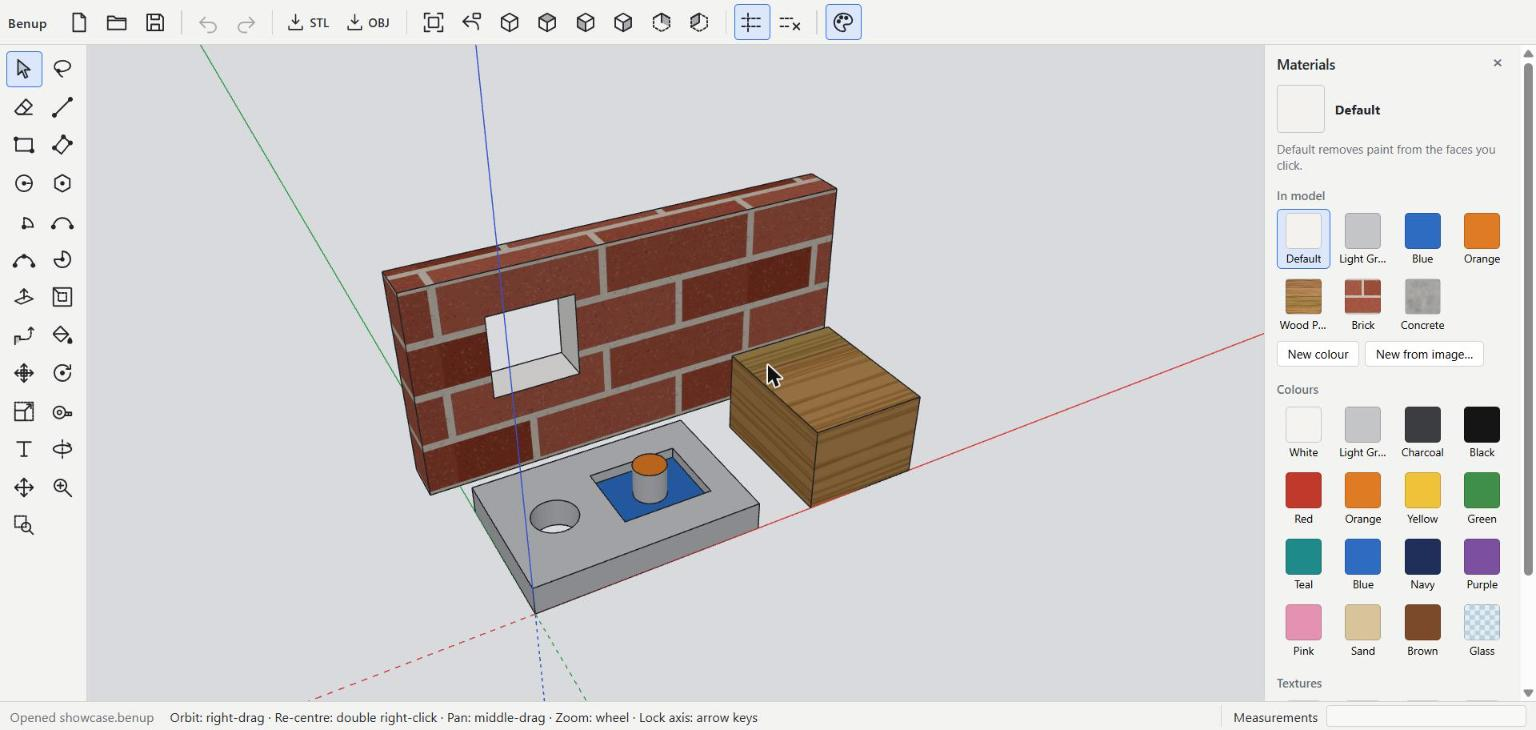
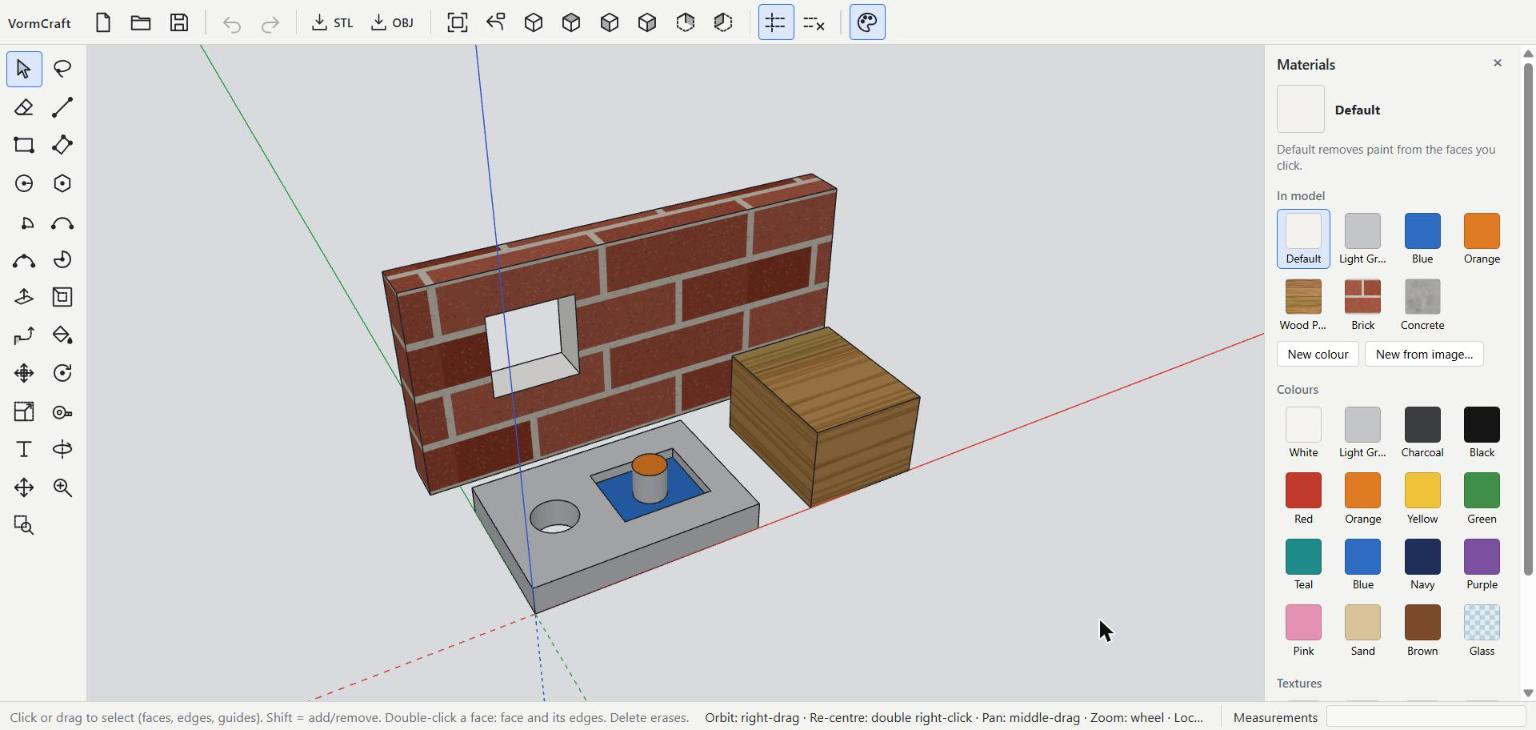
Rename the app to VormCraft; models save as .vorm (old .benup files still open)

Changed region(s): [[0.0, 0.0, 0.5938, 0.0603], [0.0, 0.9644, 0.7812, 0.9945], [0.5, 0.5123, 0.5312, 0.5425]]

diff --git a/src/app/fileCommands.ts b/src/app/fileCommands.ts
@@ -1,12 +1,16 @@
 import { checkWatertight } from '../core/check/watertight';
 import { Document } from '../doc/Document';
 import { exportObj, exportStl } from '../io/export';
-import { FILE_EXTENSION, parseDocument, serializeDocument } from '../io/fileFormat';
+import { FILE_EXTENSION, OLD_FILE_EXTENSIONS, parseDocument, serializeDocument } from '../io/fileFormat';
 import type { ToolController } from '../tools/ToolController';
 import { confirmDialog, showExportDialog } from './dialogs';
 import type { FileFilter, FileHost } from './files';
 
-const BENUP_FILTER: FileFilter = { name: 'Benup model', extensions: [FILE_EXTENSION] };
+const MODEL_FILTER: FileFilter = { name: 'VormCraft model', extensions: [FILE_EXTENSION] };
+/** Opening also accepts files saved before the app was renamed. */
+const OPEN_FILTER: FileFilter = { name: 'VormCraft model', extensions: [FILE_EXTENSION, ...OLD_FILE_EXTENSIONS] };
+/** Any of our extensions at the end of a file name. */
+const EXTENSION = new RegExp(`\\.(${[FILE_EXTENSION, ...OLD_FILE_EXTENSIONS].join('|')})$`, 'i');
 const STL_FILTER: FileFilter = { name: 'STL (binary)', extensions: ['stl'] };
 const OBJ_FILTER: FileFilter = { name: 'Wavefront OBJ', extensions: ['obj'] };
 
@@ -23,7 +27,7 @@ export class FileCommands {
   ) {}
 
   title(): string {
-    return `${this.name}${this.controller.dirty ? ' •' : ''} — Benup`;
+    return `${this.name}${this.controller.dirty ? ' •' : ''} — VormCraft`;
   }
 
   /** True if it is fine to drop the current document (saved, or the user agreed to discard). */
@@ -43,11 +47,12 @@ export class FileCommands {
   async open(): Promise<void> {
     if (!(await this.confirmDiscard())) return;
     await this.guard(async () => {
-      const file = await this.host.open(BENUP_FILTER);
+      const file = await this.host.open(OPEN_FILTER);
       if (!file) return;
       this.controller.replaceDocument(parseDocument(file.text));
-      this.name = file.name.replace(new RegExp(`\\.${FILE_EXTENSION}$`, 'i'), '');
-      this.path = file.path;
+      this.name = file.name.replace(EXTENSION, '');
+      // A file from before the rename is saved as a new .vorm file, not over the old one.
+      this.path = EXTENSION.exec(file.name)?.[1].toLowerCase() === FILE_EXTENSION ? file.path : undefined;
       this.controller.notify(`Opened ${file.name}`);
       this.onTitleChange();
     });
@@ -56,9 +61,9 @@ export class FileCommands {
   async save(saveAs = false): Promise<void> {
     await this.guard(async () => {
       const text = serializeDocument(this.controller.doc);
-      const written = await this.host.save(text, `${this.name}.${FILE_EXTENSION}`, BENUP_FILTER, saveAs ? undefined : this.path);
+      const written = await this.host.save(text, `${this.name}.${FILE_EXTENSION}`, MODEL_FILTER, saveAs ? undefined : this.path);
       if (!written) return;
-      this.name = written.name.replace(new RegExp(`\\.${FILE_EXTENSION}$`, 'i'), '');
+      this.name = written.name.replace(EXTENSION, '');
       this.path = written.path;
       this.controller.markSaved();
       this.controller.notify(this.host.native ? `Saved ${written.name}` : `Downloaded ${written.name}`);

diff --git a/src/io/fileFormat.ts b/src/io/fileFormat.ts
@@ -6,18 +6,21 @@ import { Labels } from '../doc/Labels';
 import { Materials, type Material } from '../doc/Materials';
 
 /** File extension of our own format. */
-export const FILE_EXTENSION = 'benup';
+export const FILE_EXTENSION = 'vorm';
+/** Extensions of files saved before the app was renamed (they still open). */
+export const OLD_FILE_EXTENSIONS = ['benup'];
 export const FORMAT_VERSION = 2;
 
 /**
- * Benup document (JSON, millimetres). The boundary representation is stored exactly: vertices,
+ * VormCraft document (JSON, millimetres). The boundary representation is stored exactly: vertices,
  * faces as vertex-id loops (outer first, then holes), every edge with its true-curve tag, the
  * curves themselves, and the guides. Ids are kept so a reload is identical.
  * Version 2 adds edge smoothing (a fourth entry per edge) and materials (colours and textures,
- * with each face's material). Version 1 files still open.
+ * with each face's material). Version 1 files still open, and so do files from before the app was
+ * renamed (format tag 'benup').
  */
 interface FileV2 {
-  format: 'benup';
+  format: 'vormcraft' | 'benup';
   version: 1 | 2;
   units: 'mm';
   vertices: [number, number, number, number][];
@@ -38,7 +41,7 @@ interface FileV2 {
 export function serializeDocument(doc: Document): string {
   const m = doc.model;
   const file: FileV2 = {
-    format: 'benup',
+    format: 'vormcraft',
     version: 2,
     units: 'mm',
     vertices: [...m.vertices.values()].map((v) => [v.id, ...v.pos]),
@@ -61,18 +64,18 @@ export function serializeDocument(doc: Document): string {
 
 export class FileFormatError extends Error {}
 
-/** Parse a Benup file. Throws FileFormatError with a readable message for bad or newer files. */
+/** Parse a VormCraft file. Throws FileFormatError with a readable message for bad or newer files. */
 export function parseDocument(text: string): Document {
   let raw: unknown;
   try {
     raw = JSON.parse(text);
   } catch {
-    throw new FileFormatError('This is not a Benup file (it is not valid JSON).');
+    throw new FileFormatError('This is not a VormCraft file (it is not valid JSON).');
   }
   const f = raw as Partial<FileV2> & { version?: unknown };
-  if (!f || typeof f !== 'object' || f.format !== 'benup') throw new FileFormatError('This is not a Benup file.');
+  if (!f || typeof f !== 'object' || (f.format !== 'vormcraft' && f.format !== 'benup')) throw new FileFormatError('This is not a VormCraft file.');
   if (typeof f.version !== 'number') throw new FileFormatError('The file has no version number.');
-  if (f.version > FORMAT_VERSION) throw new FileFormatError(`This file was saved by a newer version of Benup (format ${f.version}); please update the app.`);
+  if (f.version > FORMAT_VERSION) throw new FileFormatError(`This file was saved by a newer version of VormCraft (format ${f.version}); please update the app.`);
   if (f.units !== 'mm') throw new FileFormatError(`Unsupported units "${String(f.units)}".`);
 
   const model = new Model();

diff --git a/src/io/export.ts b/src/io/export.ts
@@ -34,7 +34,7 @@ export function exportStl(model: Model, opts: ExportOptions = {}): { data: Array
   const n = mesh.triangles.length / 3;
   const buf = new ArrayBuffer(84 + n * 50);
   const view = new DataView(buf);
-  const header = 'Benup binary STL, units: mm';
+  const header = 'VormCraft binary STL, units: mm';
   for (let i = 0; i < 80; i++) view.setUint8(i, i < header.length ? header.charCodeAt(i) : 0x20);
   view.setUint32(80, n, true);
   let o = 84;
@@ -56,7 +56,7 @@ export function exportStl(model: Model, opts: ExportOptions = {}): { data: Array
 export function exportObj(model: Model, opts: TessellationOptions = {}, name = 'model'): string {
   const mesh = tessellate(model, model.faces.keys(), opts);
   const fmt = (x: number) => String(Math.round(x * 1e6) / 1e6);
-  const lines = ['# Benup OBJ export', '# units: mm', `o ${name.replace(/\s+/g, '_')}`];
+  const lines = ['# VormCraft OBJ export', '# units: mm', `o ${name.replace(/\s+/g, '_')}`];
   for (let i = 0; i < mesh.positions.length; i += 3) lines.push(`v ${fmt(mesh.positions[i])} ${fmt(mesh.positions[i + 1])} ${fmt(mesh.positions[i + 2])}`);
   for (let i = 0; i < mesh.triangles.length; i += 3) lines.push(`f ${mesh.triangles[i] + 1} ${mesh.triangles[i + 1] + 1} ${mesh.triangles[i + 2] + 1}`);
   return lines.join('\n') + '\n';

diff --git a/tests/document.test.ts b/tests/document.test.ts
@@ -163,12 +163,14 @@ describe('file format', () => {
     expect([soft(a, b), soft(b, c), soft(c, d)]).toEqual([true, false, undefined]);
     const v1 = { format: 'benup', version: 1, units: 'mm', vertices: [[1, 0, 0, 0], [2, 5, 0, 0]], curves: [], faces: [], edges: [[1, 2, null]], guides: { visible: true, lines: [], points: [] } };
     expect([...parseDocument(JSON.stringify(v1)).model.edges()]).toHaveLength(1);
+    // Files saved before the rename (format tag 'benup') still open; new files carry the new tag.
+    expect(JSON.parse(text).format).toBe('vormcraft');
   });
 
   it('rejects files that are not ours, newer, or damaged with clear messages', () => {
     expect(() => parseDocument('not json')).toThrow(FileFormatError);
-    expect(() => parseDocument('{"format":"other"}')).toThrow(/not a Benup file/);
-    expect(() => parseDocument('{"format":"benup","version":99,"units":"mm"}')).toThrow(/newer version/);
+    expect(() => parseDocument('{"format":"other"}')).toThrow(/not a VormCraft file/);
+    expect(() => parseDocument('{"format":"vormcraft","version":99,"units":"mm"}')).toThrow(/newer version/);
     const doc = new Document();
     drawRectangle(doc.model, GROUND_PLANE, [0, 0, 0], 10, 10);
     const bad = JSON.parse(serializeDocument(doc));

diff --git a/src/tools/ToolController.ts b/src/tools/ToolController.ts
@@ -62,7 +62,7 @@ export class ToolController {
   private lockDir: Vec3 | null = null;
   /** Error from the last action, shown in the status bar until the next action. */
   error: string | null = null;
-  /** Information (e.g. "Saved part.benup"), shown until the next action. */
+  /** Information (e.g. "Saved part.vorm"), shown until the next action. */
   notice: string | null = null;
   /** Called after the model or guides changed (rebuild display). */
   onModelChanged: () => void = () => {};

diff --git a/tests/export.test.ts b/tests/export.test.ts
@@ -124,7 +124,7 @@ describe('STL export', () => {
     const back = readStl(data);
     expect(back.n).toBe(triangles);
     expect(openMeshEdges(back.mesh)).toBe(0);
-    expect(new TextDecoder().decode(data.slice(0, 26))).toBe('Benup binary STL, units: m');
+    expect(new TextDecoder().decode(data.slice(0, 30))).toBe('VormCraft binary STL, units: m');
   });
 
   it('refuses a model that is not watertight, unless told to export anyway', () => {

diff --git a/src/app/main.ts b/src/app/main.ts
@@ -312,7 +312,7 @@ function buildToolbar(viewer: Viewer, controller: ToolController, files: FileCom
   const bar = document.getElementById('toolbar')!;
   const brand = document.createElement('span');
   brand.className = 'brand';
-  brand.textContent = 'Benup';
+  brand.textContent = 'VormCraft';
   bar.append(brand);
   const sep = () => bar.append(Object.assign(document.createElement('span'), { className: 'sep' }));
 

diff --git a/src/app/dialogs.ts b/src/app/dialogs.ts
@@ -10,7 +10,7 @@ const PRESETS: { id: string; label: string; value: number | undefined }[] = [
   { id: 'normal', label: 'Normal (0.05 mm)', value: 0.05 },
   { id: 'fine', label: 'Fine (0.01 mm)', value: 0.01 },
 ];
-const STORAGE_KEY = 'benup.export.resolution';
+const STORAGE_KEY = 'vormcraft.export.resolution';
 
 function remembered(): string {
   try {

diff --git a/index.html b/index.html
@@ -3,7 +3,7 @@
   <head>
     <meta charset="UTF-8" />
     <meta name="viewport" content="width=device-width, initial-scale=1.0" />
-    <title>Benup Modeler</title>
+    <title>VormCraft</title>
     <link rel="stylesheet" href="/src/app/styles.css" />
   </head>
   <body>

diff --git a/src-tauri/src/lib.rs b/src-tauri/src/lib.rs
@@ -6,5 +6,5 @@ pub fn run() {
     .plugin(tauri_plugin_dialog::init())
     .plugin(tauri_plugin_fs::init())
     .run(tauri::generate_context!())
-    .expect("error while running Benup");
+    .expect("error while running VormCraft");
 }

diff --git a/src-tauri/src/main.rs b/src-tauri/src/main.rs
@@ -2,5 +2,5 @@
 #![cfg_attr(not(debug_assertions), windows_subsystem = "windows")]
 
 fn main() {
-  benup_lib::run();
+  vormcraft_lib::run();
 }

diff --git a/README.md b/README.md
@@ -1,10 +1,10 @@
-# Benup
+# VormCraft
 
 **A free, fast, direct 3D modeler: draw a shape, grab a face, push it.**
 
-Benup is a push/pull 3D modeling program for woodworking, architecture sketches, 3D printing and CAD/CAM handoff. There is no parametric timeline and no constraint solver. You draw on faces, push and pull them, and the model follows. It works much like SketchUp, but it is free and open source.
+VormCraft is a push/pull 3D modeling program for woodworking, architecture sketches, 3D printing and CAD/CAM handoff. There is no parametric timeline and no constraint solver. You draw on faces, push and pull them, and the model follows. It works much like SketchUp, but it is free and open source.
 
-![Benup with a painted sample model and the Materials panel open](docs/screenshot.jpg)
+![VormCraft with a painted sample model and the Materials panel open](docs/screenshot.jpg)
 
 > **Status:** early (v0.1) and under active development. The modeling core is solid and well tested. New features are added as the program gets used. A Windows 11 installer will be published on the [Releases](../../releases) page. Until then, run it from source (see below).
 
@@ -38,7 +38,7 @@ Benup is a push/pull 3D modeling program for woodworking, architecture sketches,
 - Paint follows the geometry: split, pushed and moved faces keep their paint.
 
 ### Files and export
-- Saves to its own `.benup` file format. Older files keep opening as the format evolves.
+- Saves to its own `.vorm` file format. Older files keep opening as the format evolves, including `.benup` files from before the rename.
 - **STL** (binary) export with a watertight check and adjustable curve resolution, for 3D printing.
 - **OBJ** export.
 - Unlimited undo and redo.
@@ -83,8 +83,8 @@ Standard views (top, front, iso, …), Zoom Window, Previous View and back-edge 
 You need [Node.js](https://nodejs.org/) 20.19+ or 22.12+.
 
 ```bash
-git clone https://github.com/dobbsbp/benup.git
-cd benup
+git clone https://github.com/dobbsbp/VormCraft.git
+cd VormCraft
 npm install
 npm run dev          # then open the address it prints (http://localhost:5173)
 ```
@@ -110,7 +110,7 @@ npm run desktop:build    # installer in src-tauri/target/release/bundle/nsis/
 
 ## How it works
 
-Benup's own geometry kernel is the source of truth. The 3D view only displays it.
+VormCraft's own geometry kernel is the source of truth. The 3D view only displays it.
 
 | Folder | What's in it |
 | --- | --- |
@@ -118,7 +118,7 @@ Benup's own geometry kernel is the source of truth. The 3D view only displays it
 | `src/view` | [Three.js](https://threejs.org/) display: triangulation for drawing, picking that maps every triangle and line back to its model face or edge, camera navigation. |
 | `src/tools` | Every tool as a plain state machine, plus the inference/snapping engine and the controller that turns each operation into one atomic, undoable step. |
 | `src/doc` | The document (model, guides, labels, materials), snapshots and undo history. |
-| `src/io` | The `.benup` file format, STL and OBJ export, and tessellation of curved surfaces from their true radii. |
+| `src/io` | The `.vorm` file format, STL and OBJ export, and tessellation of curved surfaces from their true radii. |
 | `src/app` | The app shell: toolbar, panels, dialogs, icons. |
 | `src-tauri` | The Tauri desktop shell (native file dialogs and file access). |
 | `tests` | Vitest tests covering the kernel, tools, snapping, file format and display data. |
@@ -145,4 +145,4 @@ Bug reports and suggestions are welcome in [Issues](../../issues).
 
 [MIT](LICENSE). Free to use, change and share, including commercially.
 
-Benup is an independent project and is not affiliated with or endorsed by Trimble or SketchUp.
+VormCraft is an independent project and is not affiliated with or endorsed by Trimble or SketchUp.
